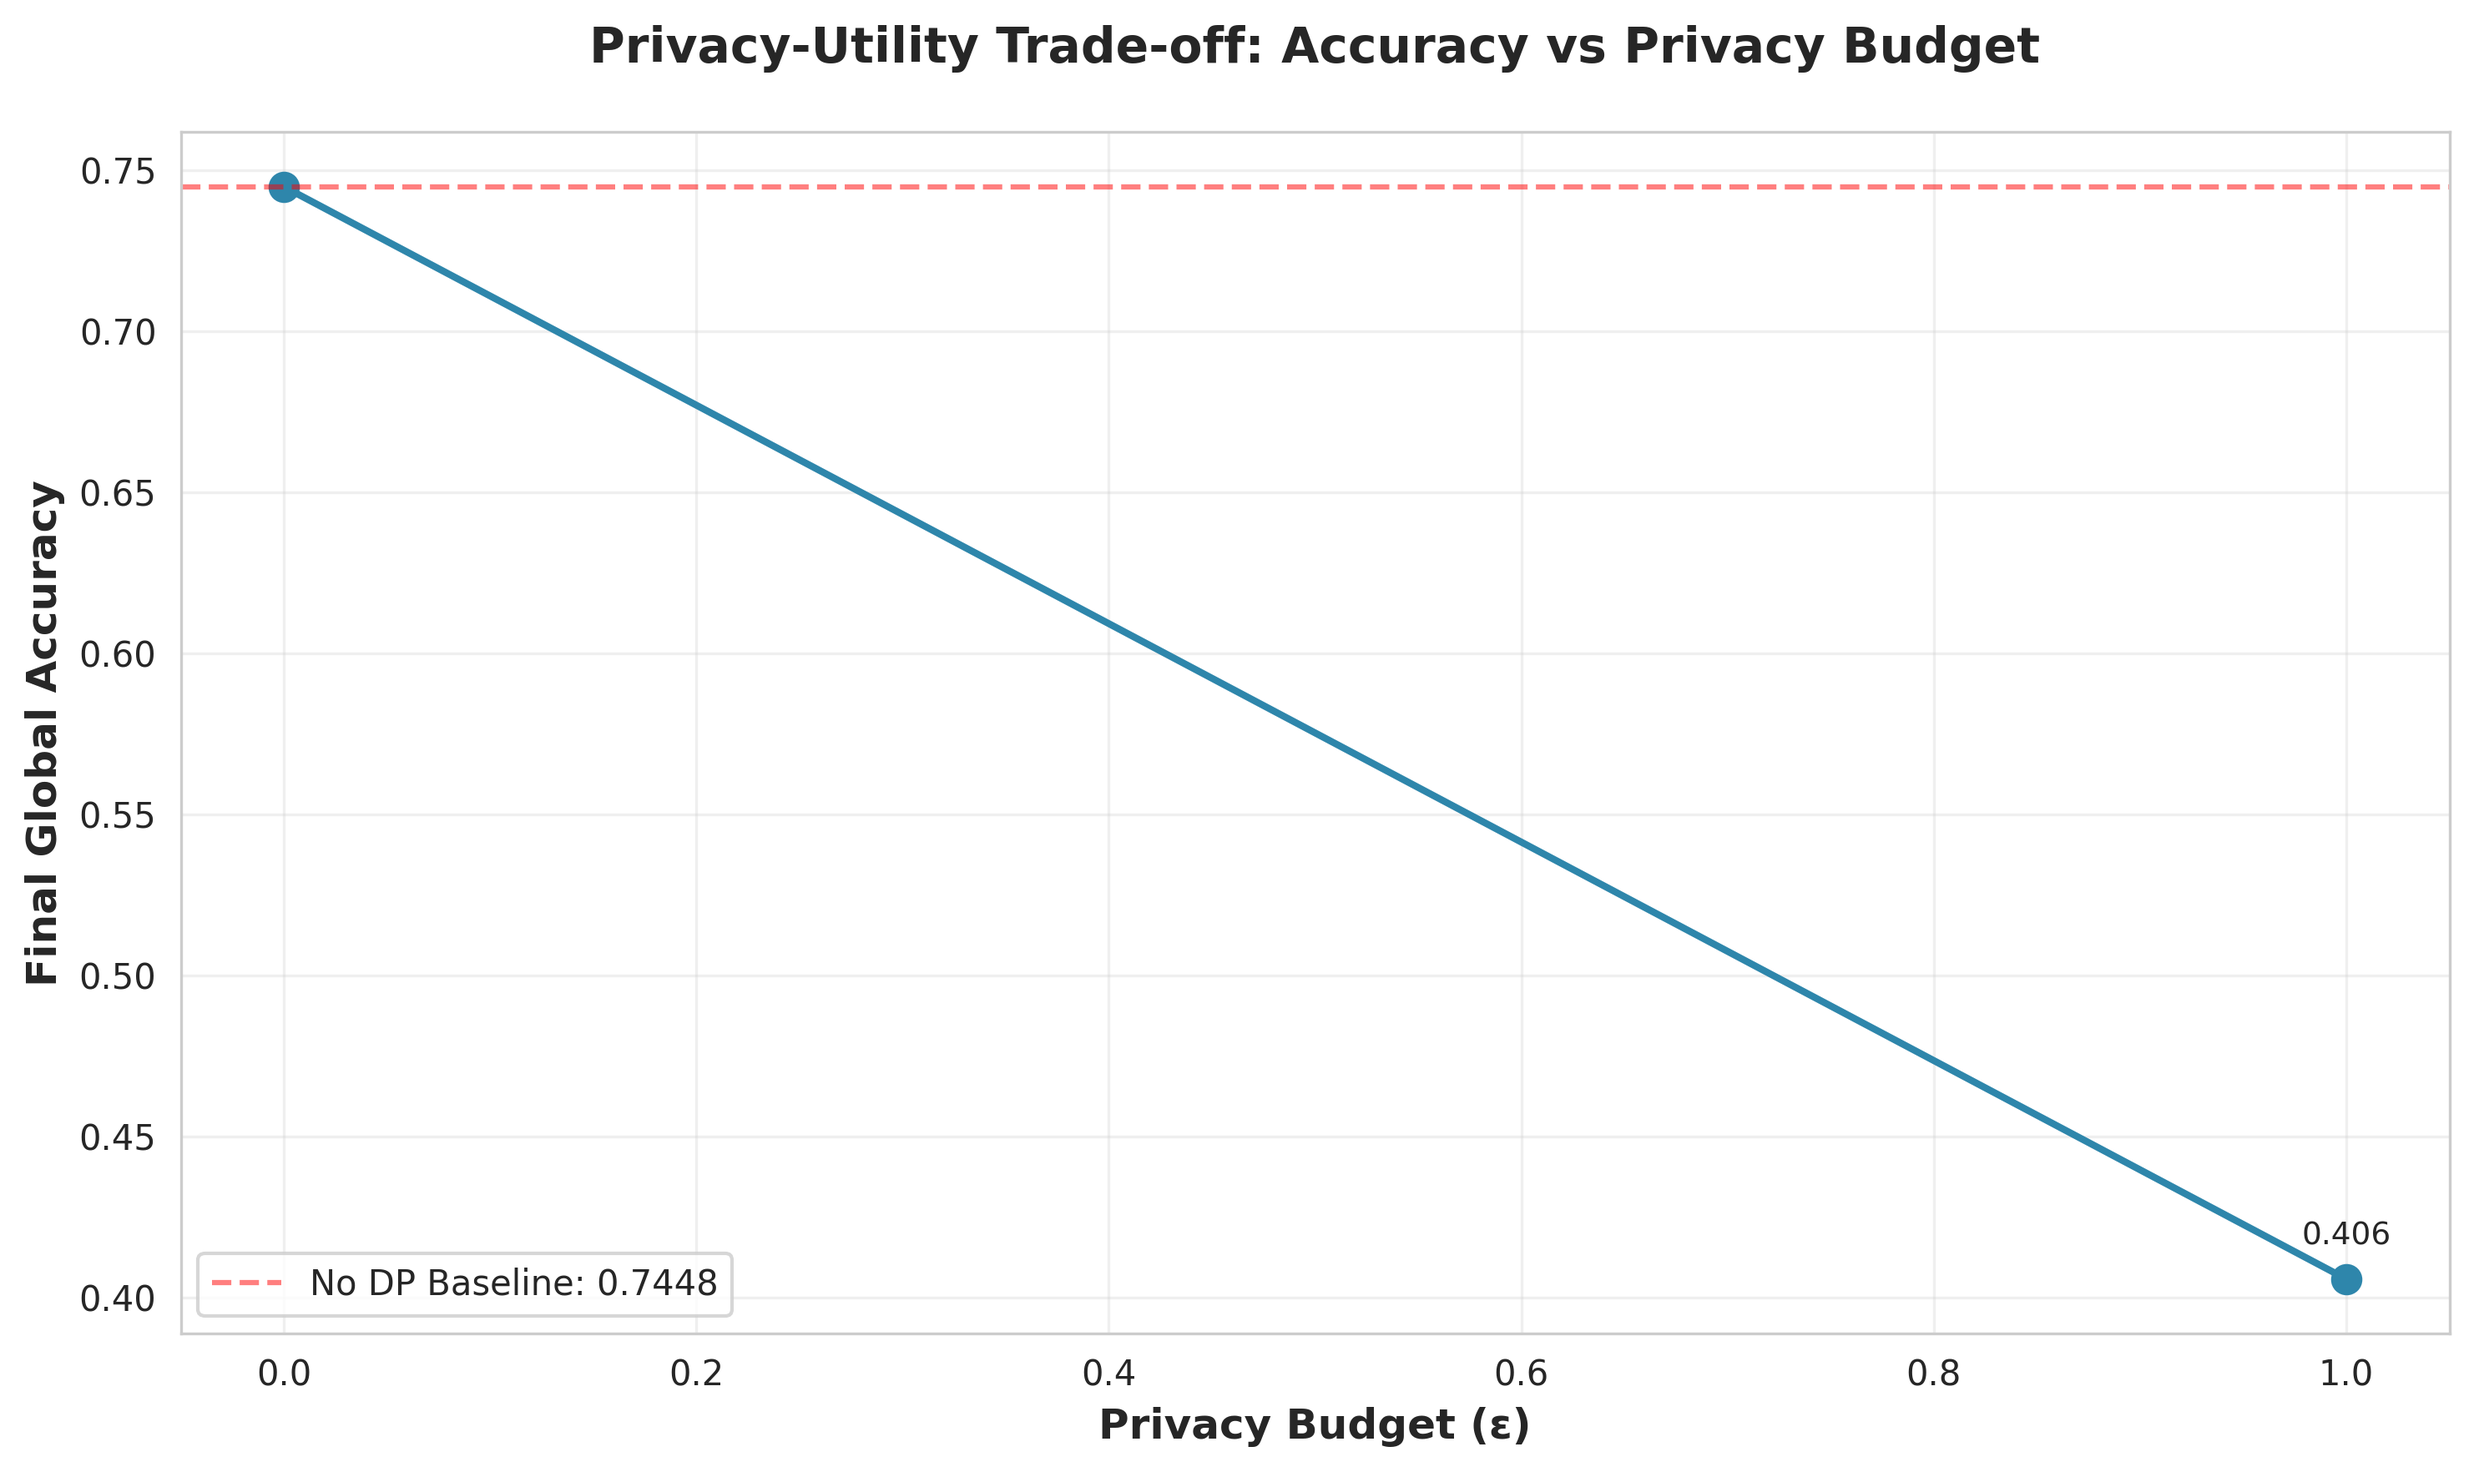
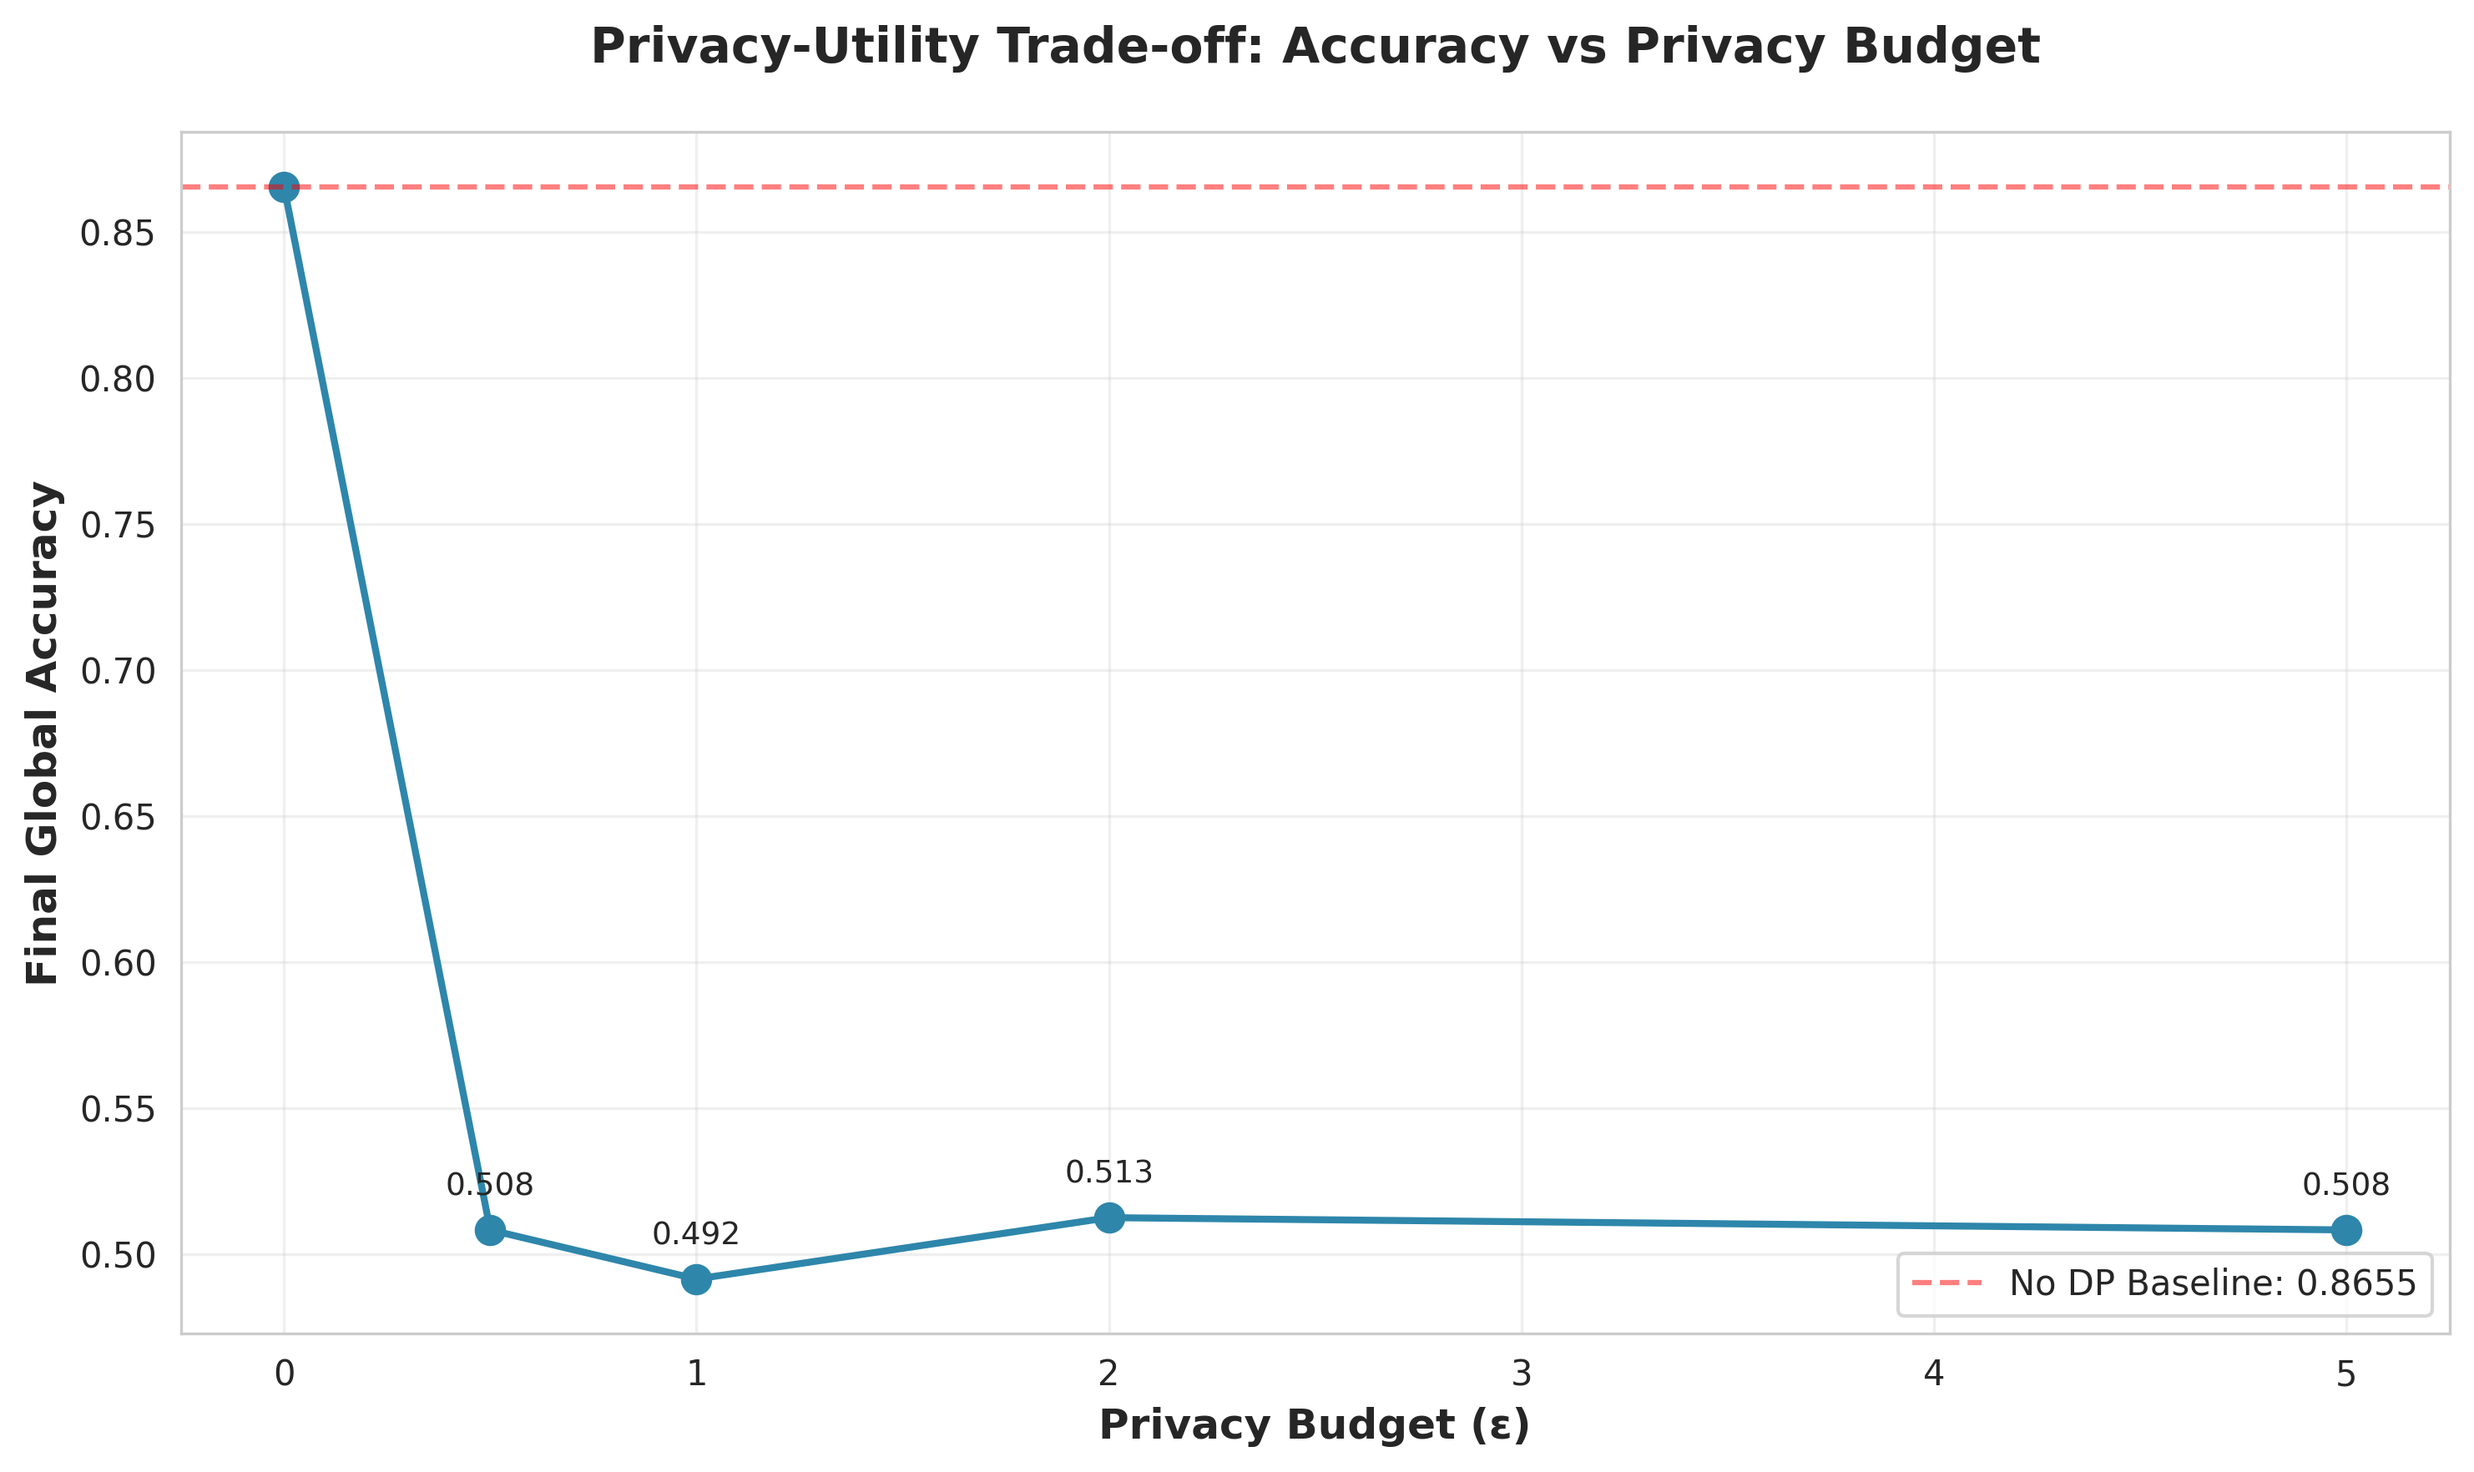
Update privacy-utility analysis with final outputs and code review fixes

diff --git a/run_privacy_utility_analysis.py b/run_privacy_utility_analysis.py
@@ -147,8 +147,10 @@ def run_single_epsilon_experiment(
             results["final_accuracy"] = float(train_accuracy[-1][1])
     
     # Calculate client accuracy variance (fairness metric)
-    # We'll evaluate each client on their validation set after the final round
-    # to measure fairness across clients
+    # We evaluate each client on their validation set after the final round
+    # to measure fairness across clients.
+    # Note: Client instances are created here for evaluation only (once per epsilon),
+    # which is acceptable for this analysis use case.
     client_accuracies = []
     for client_id in range(num_clients):
         client = client_fn(str(client_id))
@@ -377,9 +379,9 @@ def generate_analysis_report(results: List[Dict], output_path: str, config: Dict
     # Recommendations
     lines.append("## Recommendations\n")
     lines.append("Based on the privacy-utility analysis:\n")
-    lines.append("1. **For maximum utility:** Use higher epsilon (ε ≥ 3.0) or no DP if privacy is not a concern")
+    lines.append("1. **For maximum utility:** Use higher epsilon (ε ≥ 5.0) or no DP if privacy is not a concern")
     lines.append("2. **For balanced trade-off:** Use moderate epsilon (ε = 1.0 - 2.0)")
-    lines.append("3. **For strong privacy:** Use low epsilon (ε < 1.0), accepting potential utility loss")
+    lines.append("3. **For strong privacy:** Use low epsilon (ε ≤ 0.5), accepting potential utility loss")
     lines.append("4. **Consider fairness:** Choose epsilon that minimizes client accuracy variance")
     lines.append("")
     

diff --git a/reports/privacy_utility_analysis.md b/reports/privacy_utility_analysis.md
@@ -1,6 +1,6 @@
 # Privacy-Utility Analysis for Federated Learning
 
-**Generated:** 2026-01-31 05:10:18
+**Generated:** 2026-01-31 05:26:44
 
 ---
 
@@ -13,8 +13,8 @@ budget (epsilon), we measure the impact on model accuracy and loss.
 
 ## Experiment Configuration
 
-- **Number of Clients:** 3
-- **Number of Rounds:** 3
+- **Number of Clients:** 5
+- **Number of Rounds:** 10
 - **Model Architecture:** LSTM (PRIMARY)
 - **Data Partitioning:** Non-IID
 - **Strategy:** FedAvg
@@ -29,41 +29,59 @@ budget (epsilon), we measure the impact on model accuracy and loss.
 
 | Epsilon (ε) | Privacy Level | Description |
 |-------------|---------------|-------------|
-| 0.0 | None | No differential privacy (baseline) |
+| 0 | None | No differential privacy (baseline) |
+| 0.5 | Strong | High privacy protection, potential utility loss |
 | 1.0 | Moderate | Balanced privacy-utility trade-off |
+| 2.0 | Moderate | Balanced privacy-utility trade-off |
+| 5.0 | Relaxed | Lower privacy protection, higher utility |
 
 ## Results Summary
 
 | Epsilon (ε) | Final Accuracy | Final Loss | Client Accuracy Variance |
 |-------------|----------------|------------|-------------------------|
-| 0.0 | 0.7448 | 0.6243 | 0.008587 |
-| 1.0 | 0.4059 | 7.5986 | 0.028258 |
+| 0 | 0.8655 | 0.5666 | 0.026202 |
+| 0.5 | 0.5084 | 50.2011 | 0.031537 |
+| 1.0 | 0.4916 | 22.3805 | 0.003379 |
+| 2.0 | 0.5126 | 12.0306 | 0.007646 |
+| 5.0 | 0.5084 | 4.4987 | 0.006825 |
 
 ## Key Findings
 
 ### Privacy-Utility Trade-off
 
-**Baseline (No DP):** Accuracy = 0.7448, Loss = 0.6243
+**Baseline (No DP):** Accuracy = 0.8655, Loss = 0.5666
+
+**ε = 0.5:**
+- Accuracy: 0.5084 (-0.3571, -41.26%)
+- Loss: 50.2011 (+49.6345)
 
 **ε = 1.0:**
-- Accuracy: 0.4059 (-0.3389, -45.51%)
-- Loss: 7.5986 (+6.9743)
+- Accuracy: 0.4916 (-0.3739, -43.20%)
+- Loss: 22.3805 (+21.8140)
+
+**ε = 2.0:**
+- Accuracy: 0.5126 (-0.3529, -40.78%)
+- Loss: 12.0306 (+11.4641)
+
+**ε = 5.0:**
+- Accuracy: 0.5084 (-0.3571, -41.26%)
+- Loss: 4.4987 (+3.9321)
 
 ### Fairness Analysis
 
 Client accuracy variance measures how fairly the model performs across 
 different hospitals. Lower variance indicates more equitable performance.
 
-- **Lowest variance:** ε = 0.0 (variance = 0.008587)
-- **Highest variance:** ε = 1.0 (variance = 0.028258)
+- **Lowest variance:** ε = 1.0 (variance = 0.003379)
+- **Highest variance:** ε = 0.5 (variance = 0.031537)
 
 ## Recommendations
 
 Based on the privacy-utility analysis:
 
-1. **For maximum utility:** Use higher epsilon (ε ≥ 3.0) or no DP if privacy is not a concern
+1. **For maximum utility:** Use higher epsilon (ε ≥ 5.0) or no DP if privacy is not a concern
 2. **For balanced trade-off:** Use moderate epsilon (ε = 1.0 - 2.0)
-3. **For strong privacy:** Use low epsilon (ε < 1.0), accepting potential utility loss
+3. **For strong privacy:** Use low epsilon (ε ≤ 0.5), accepting potential utility loss
 4. **Consider fairness:** Choose epsilon that minimizes client accuracy variance
 
 ## Visualizations
